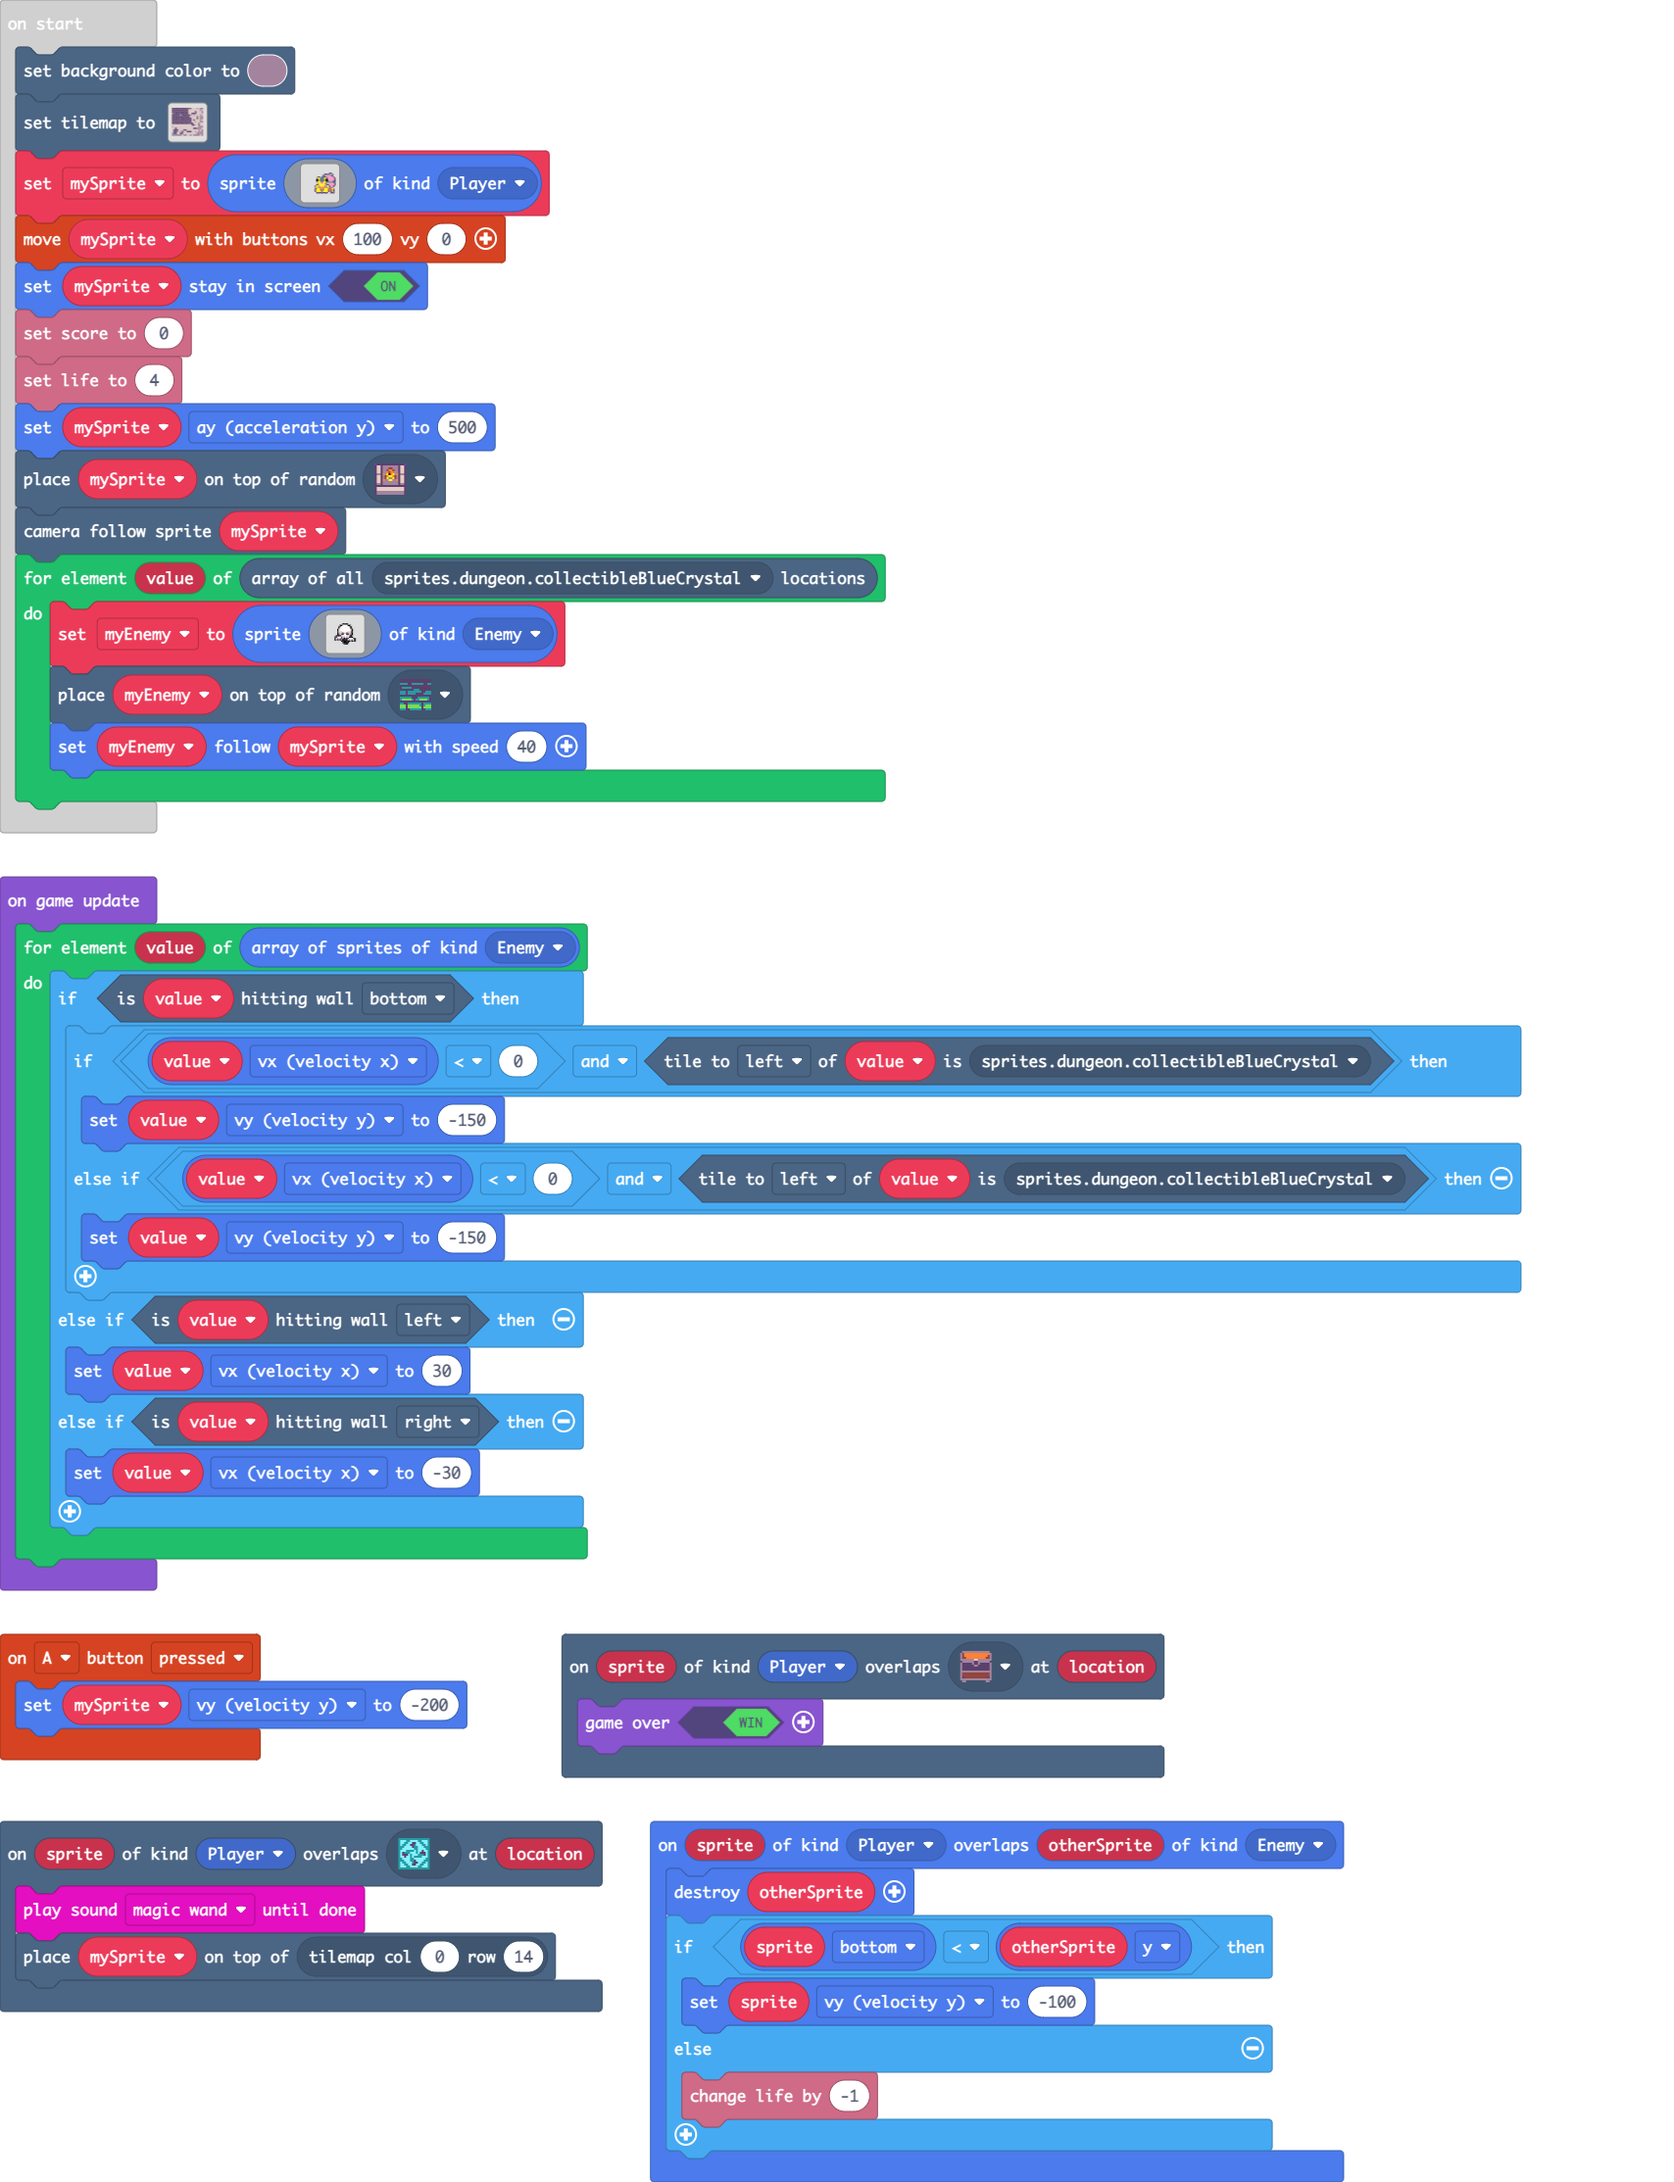
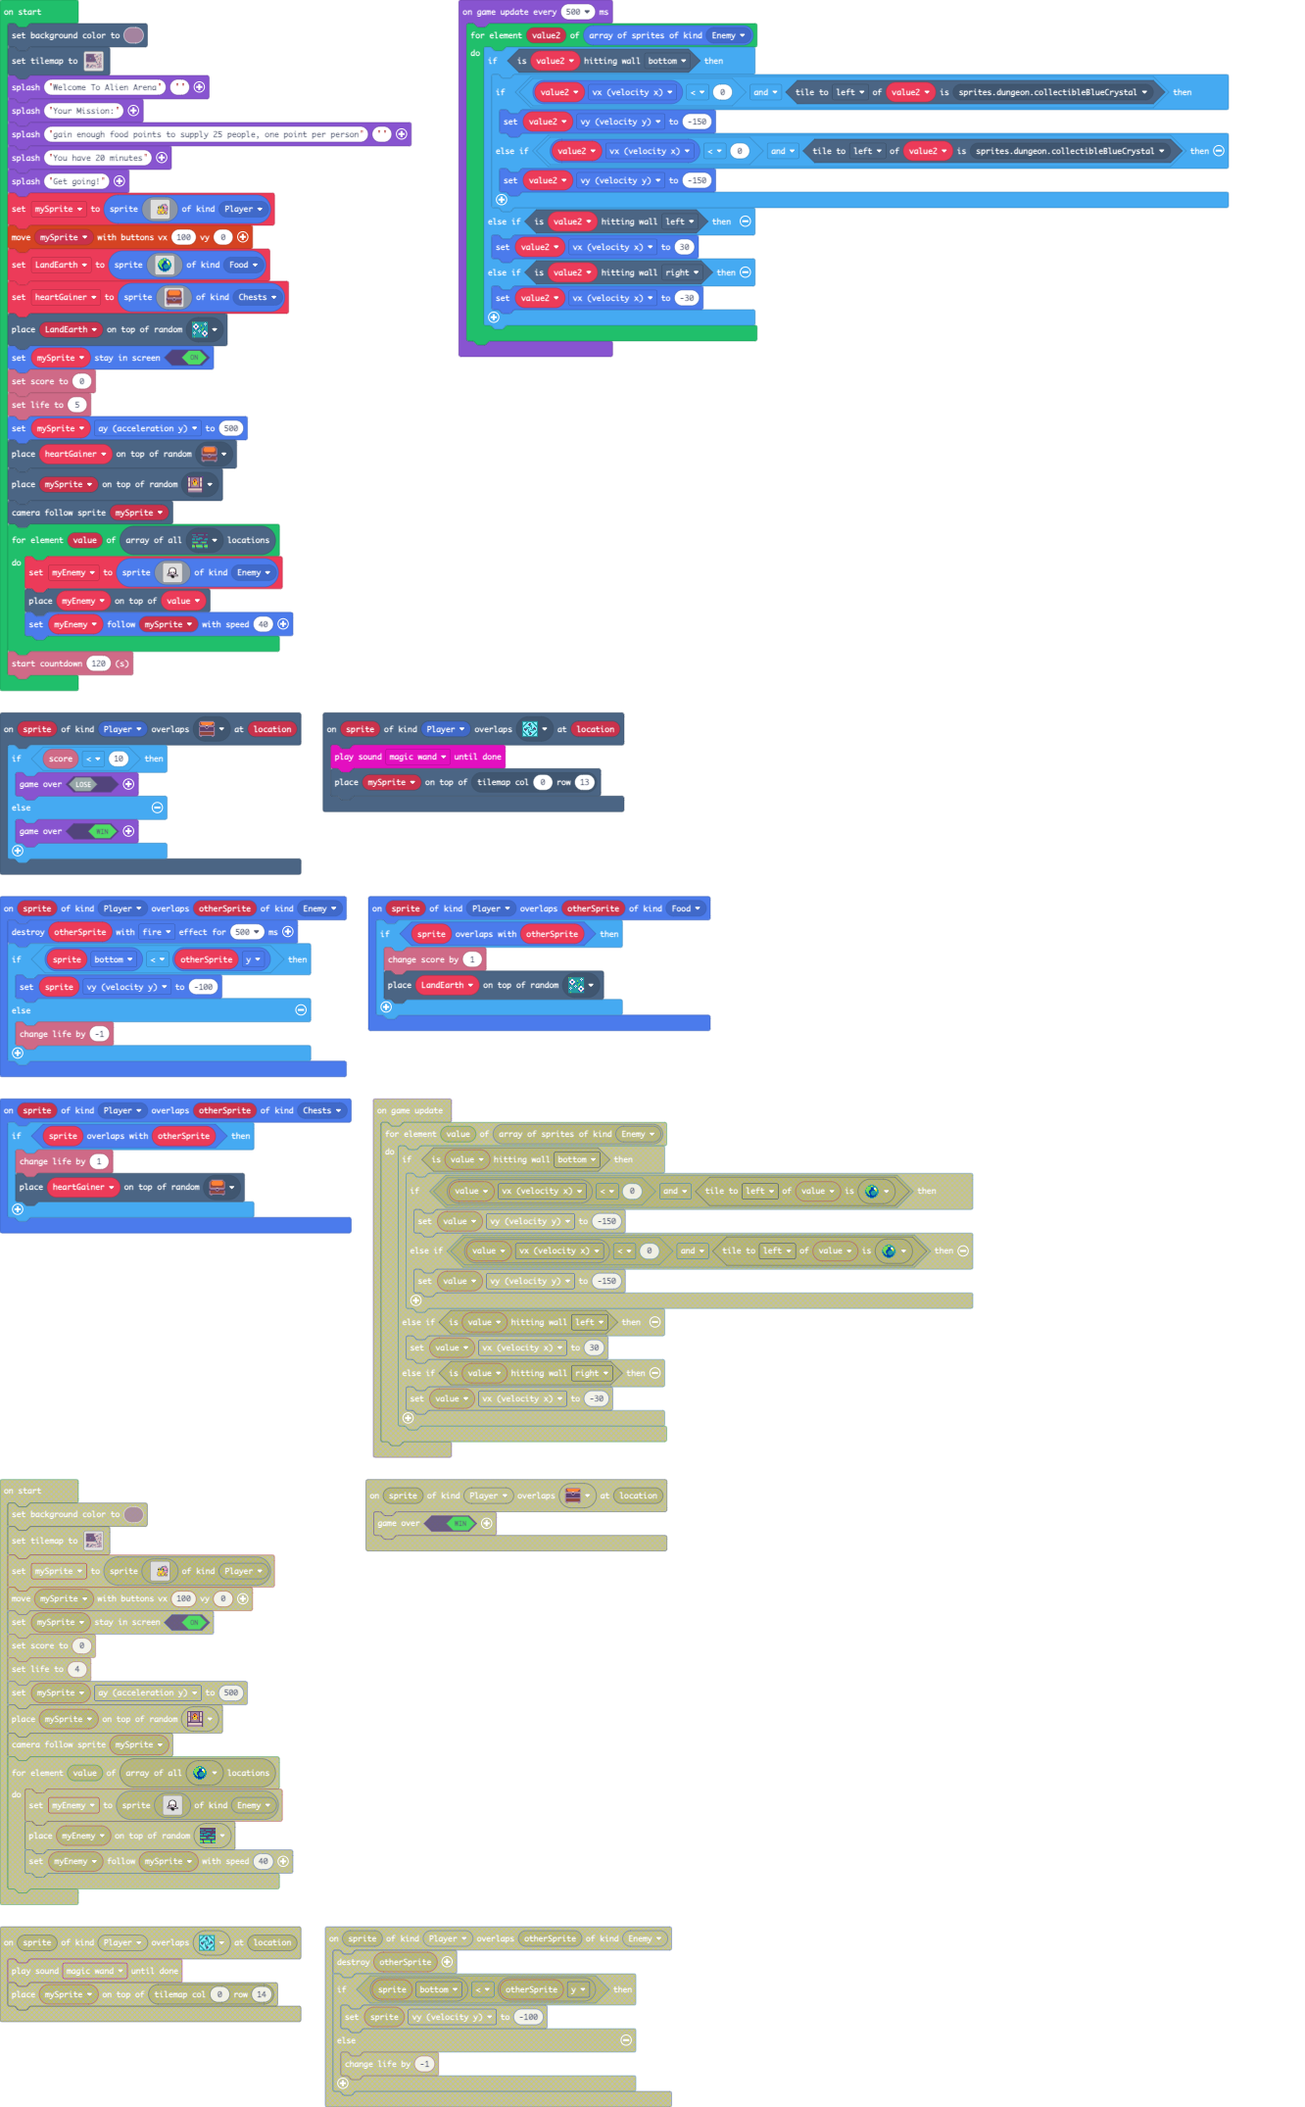
Update main.blocks, main.ts, tilemap.g.jres, tilemap.g.ts

diff --git a/main.ts b/main.ts
@@ -1,15 +1,34 @@
+namespace SpriteKind {
+    export const Chests = SpriteKind.create()
+}
+sprites.onOverlap(SpriteKind.Player, SpriteKind.Chests, function (sprite, otherSprite) {
+    if (sprite.overlapsWith(otherSprite)) {
+        info.changeLifeBy(1)
+        tiles.placeOnRandomTile(heartGainer, sprites.dungeon.chestClosed)
+    }
+})
 controller.A.onEvent(ControllerButtonEvent.Pressed, function () {
     mySprite.vy = -200
 })
+sprites.onOverlap(SpriteKind.Player, SpriteKind.Food, function (sprite, otherSprite) {
+    if (sprite.overlapsWith(otherSprite)) {
+        info.changeScoreBy(1)
+        tiles.placeOnRandomTile(LandEarth, sprites.castle.tileDarkGrass2)
+    }
+})
 scene.onOverlapTile(SpriteKind.Player, sprites.dungeon.chestOpen, function (sprite, location) {
-    game.over(true)
+    if (info.score() < 10) {
+        game.over(false)
+    } else {
+        game.over(true)
+    }
 })
 scene.onOverlapTile(SpriteKind.Player, sprites.dungeon.collectibleInsignia, function (sprite, location) {
     music.magicWand.playUntilDone()
-    tiles.placeOnTile(mySprite, tiles.getTileLocation(0, 14))
+    tiles.placeOnTile(mySprite, tiles.getTileLocation(0, 13))
 })
 sprites.onOverlap(SpriteKind.Player, SpriteKind.Enemy, function (sprite, otherSprite) {
-    otherSprite.destroy()
+    otherSprite.destroy(effects.fire, 500)
     if (sprite.bottom < otherSprite.y) {
         sprite.vy = -100
     } else {
@@ -17,9 +36,16 @@ sprites.onOverlap(SpriteKind.Player, SpriteKind.Enemy, function (sprite, otherSp
     }
 })
 let myEnemy: Sprite = null
+let heartGainer: Sprite = null
+let LandEarth: Sprite = null
 let mySprite: Sprite = null
 scene.setBackgroundColor(11)
 tiles.setTilemap(tilemap`level1`)
+game.splash("Welcome To Alien Arena")
+game.splash("Your Mission:")
+game.splash("gain enough food points to supply 25 people, one point per person")
+game.splash("You have 20 minutes")
+game.splash("Get going!")
 mySprite = sprites.create(img`
     ...................cc...
     ...............cccc63c..
@@ -39,13 +65,51 @@ mySprite = sprites.create(img`
     .........ccccccccc..ccc.
     `, SpriteKind.Player)
 controller.moveSprite(mySprite, 100, 0)
+LandEarth = sprites.create(img`
+    . . . . . . . . . . . . . . . . 
+    . . . . . . 6 6 6 6 . . . . . . 
+    . . . . 6 6 6 5 5 6 6 6 . . . . 
+    . . . 7 7 7 7 6 6 6 6 6 6 . . . 
+    . . 6 7 7 7 7 8 8 8 1 1 6 6 . . 
+    . . 7 7 7 7 7 8 8 8 1 1 5 6 . . 
+    . 6 7 7 7 7 8 8 8 8 8 5 5 6 6 . 
+    . 6 7 7 7 8 8 8 6 6 6 6 5 6 6 . 
+    . 6 6 7 7 8 8 6 6 6 6 6 6 6 6 . 
+    . 6 8 7 7 8 8 6 6 6 6 6 6 6 6 . 
+    . . 6 8 7 7 8 6 6 6 6 6 8 6 . . 
+    . . 6 8 8 7 8 8 6 6 6 8 6 6 . . 
+    . . . 6 8 8 8 8 8 8 8 8 6 . . . 
+    . . . . 6 6 8 8 8 8 6 6 . . . . 
+    . . . . . . 6 6 6 6 . . . . . . 
+    . . . . . . . . . . . . . . . . 
+    `, SpriteKind.Food)
+heartGainer = sprites.create(img`
+    . . b b b b b b b b b b b b . . 
+    . b e 4 4 4 4 4 4 4 4 4 4 e b . 
+    b e 4 4 4 4 4 4 4 4 4 4 4 4 e b 
+    b e 4 4 4 4 4 4 4 4 4 4 4 4 e b 
+    b e 4 4 4 4 4 4 4 4 4 4 4 4 e b 
+    b e e 4 4 4 4 4 4 4 4 4 4 e e b 
+    b e e e e e e e e e e e e e e b 
+    b e e e e e e e e e e e e e e b 
+    b b b b b b b d d b b b b b b b 
+    c b b b b b b c c b b b b b b c 
+    c c c c c c b c c b c c c c c c 
+    b e e e e e c b b c e e e e e b 
+    b e e e e e e e e e e e e e e b 
+    b c e e e e e e e e e e e e c b 
+    b b b b b b b b b b b b b b b b 
+    . b b . . . . . . . . . . b b . 
+    `, SpriteKind.Chests)
+tiles.placeOnRandomTile(LandEarth, sprites.castle.tileDarkGrass2)
 mySprite.setStayInScreen(true)
 info.setScore(0)
-info.setLife(4)
+info.setLife(5)
 mySprite.ay = 500
+tiles.placeOnRandomTile(heartGainer, sprites.dungeon.chestClosed)
 tiles.placeOnRandomTile(mySprite, sprites.dungeon.doorLockedSouth)
 scene.cameraFollowSprite(mySprite)
-for (let value of tiles.getTilesByType(sprites.dungeon.collectibleBlueCrystal)) {
+for (let value of tiles.getTilesByType(sprites.dungeon.greenOuterSouth0)) {
     myEnemy = sprites.create(img`
         ........................
         ........................
@@ -72,21 +136,22 @@ for (let value of tiles.getTilesByType(sprites.dungeon.collectibleBlueCrystal)) 
         ........................
         ........................
         `, SpriteKind.Enemy)
-    tiles.placeOnRandomTile(myEnemy, sprites.dungeon.greenOuterSouth0)
+    tiles.placeOnTile(myEnemy, value)
     myEnemy.follow(mySprite, 40)
 }
-game.onUpdate(function () {
-    for (let value of sprites.allOfKind(SpriteKind.Enemy)) {
-        if (value.isHittingTile(CollisionDirection.Bottom)) {
-            if (value.vx < 0 && value.tileKindAt(TileDirection.Left, sprites.dungeon.collectibleBlueCrystal)) {
-                value.vy = -150
-            } else if (value.vx < 0 && value.tileKindAt(TileDirection.Left, sprites.dungeon.collectibleBlueCrystal)) {
-                value.vy = -150
+info.startCountdown(120)
+game.onUpdateInterval(500, function () {
+    for (let value2 of sprites.allOfKind(SpriteKind.Enemy)) {
+        if (value2.isHittingTile(CollisionDirection.Bottom)) {
+            if (value2.vx < 0 && value2.tileKindAt(TileDirection.Left, sprites.dungeon.collectibleBlueCrystal)) {
+                value2.vy = -150
+            } else if (value2.vx < 0 && value2.tileKindAt(TileDirection.Left, sprites.dungeon.collectibleBlueCrystal)) {
+                value2.vy = -150
             }
-        } else if (value.isHittingTile(CollisionDirection.Left)) {
-            value.vx = 30
-        } else if (value.isHittingTile(CollisionDirection.Right)) {
-            value.vx = -30
+        } else if (value2.isHittingTile(CollisionDirection.Left)) {
+            value2.vx = 30
+        } else if (value2.isHittingTile(CollisionDirection.Right)) {
+            value2.vx = -30
         }
     }
 })

diff --git a/tilemap.g.ts b/tilemap.g.ts
@@ -6,25 +6,25 @@ namespace myTiles {
     helpers._registerFactory("tilemap", function(name: string) {
         switch(helpers.stringTrim(name)) {
             case "level1":
[2 lines of base64/hex data omitted]
 ....22...2.......2.
 ....22...2.......2.
 ..2.22...2....2..2.
 ..2.2....2..22...2.
 222.2.....2......2.
-..2.2222..2......2.
+..2.2.22..2......2.
 ....22...222...2.2.
 ....2....222.2...2.
 ..222...2222.....2.
-.......222222....2.
-22222222222222..22.
+.......222..2....2.
+2222222222..22..22.
 ................22.
 ..2..........2222..
 .222...22......2...
 .22...2..222...2...
-.22..2.........2...
+.2...2.........2...
 2222222222222222...
-`, [myTiles.transparency16,sprites.dungeon.darkGroundNorthWest0,sprites.dungeon.darkGroundSouthEast0,sprites.dungeon.darkGroundSouthWest0,sprites.dungeon.darkGroundNorthEast0,sprites.dungeon.darkGroundWest,sprites.dungeon.darkGroundSouth,sprites.dungeon.darkGroundEast,sprites.dungeon.darkGroundNorth,sprites.dungeon.darkGroundCenter,sprites.dungeon.darkGroundNorthWest1,sprites.dungeon.collectibleInsignia,sprites.dungeon.chestOpen,sprites.dungeon.doorLockedSouth,sprites.dungeon.chestClosed,sprites.dungeon.floorLight0,sprites.dungeon.floorMixed,sprites.dungeon.floorLightMoss,sprites.dungeon.floorLight5,sprites.dungeon.floorLight2,sprites.dungeon.floorLight4,sprites.dungeon.floorDark0,sprites.dungeon.floorDarkDiamond,sprites.dungeon.floorDark4,sprites.dungeon.floorDark1,sprites.dungeon.purpleSwitchUp,sprites.dungeon.darkGroundNorthEast1,sprites.dungeon.greenOuterSouth0], TileScale.Sixteen);
+`, [myTiles.transparency16,sprites.dungeon.darkGroundNorthWest0,sprites.dungeon.darkGroundSouthEast0,sprites.dungeon.darkGroundSouthWest0,sprites.dungeon.darkGroundNorthEast0,sprites.dungeon.darkGroundWest,sprites.dungeon.darkGroundSouth,sprites.dungeon.darkGroundEast,sprites.dungeon.darkGroundNorth,sprites.dungeon.darkGroundCenter,sprites.dungeon.darkGroundNorthWest1,sprites.dungeon.collectibleInsignia,sprites.dungeon.chestOpen,sprites.dungeon.doorLockedSouth,sprites.dungeon.chestClosed,sprites.dungeon.floorLight0,sprites.dungeon.floorMixed,sprites.dungeon.floorLightMoss,sprites.dungeon.floorLight5,sprites.dungeon.floorLight2,sprites.dungeon.floorLight4,sprites.dungeon.floorDark0,sprites.dungeon.floorDarkDiamond,sprites.dungeon.floorDark4,sprites.dungeon.floorDark1,sprites.dungeon.purpleSwitchUp,sprites.dungeon.darkGroundNorthEast1,sprites.dungeon.greenOuterSouth0,sprites.castle.tileDarkGrass2], TileScale.Sixteen);
         }
         return null;
     })
